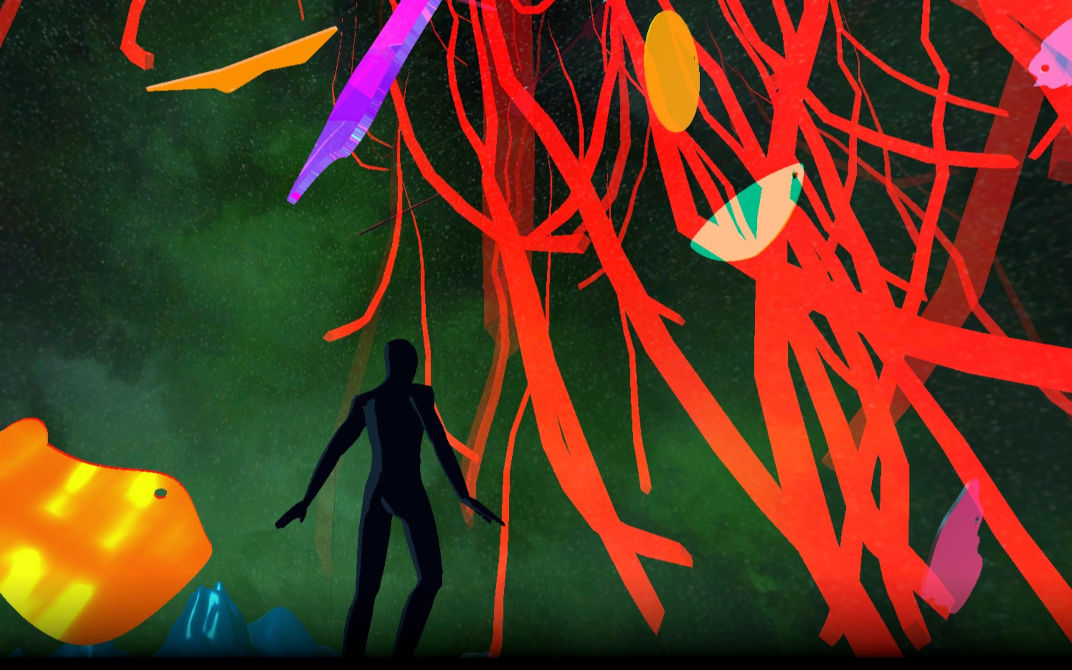
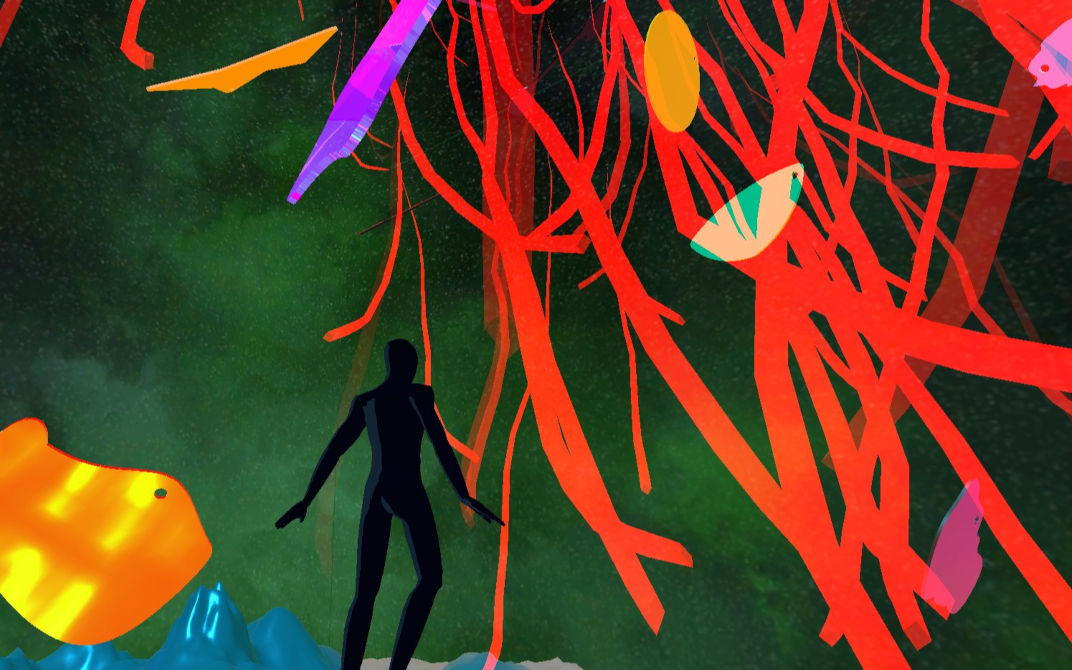
Fix presentation image and css for background

Changed region(s): [[0.0, 0.8657, 1.0, 1.0]]

diff --git a/css/styles.css b/css/styles.css
@@ -11069,7 +11069,7 @@ body {
   height: auto;
   min-height: 35rem;
   padding: 15rem 0;
-  background: linear-gradient(to bottom, rgba(0, 0, 0, 0.15) 90%, rgba(0, 0, 0, 0.15) 95%, #000 100%), url("../assets/img/bg-masthead.jpg");
+  background: linear-gradient(to bottom, rgba(0, 0, 0, 0.15) 80%, rgba(0, 0, 0, 0.15) 85%, #000 100%), url("../assets/img/bg-masthead.jpg");
   background-position: center;
   background-repeat: no-repeat;
   background-attachment: scroll;
